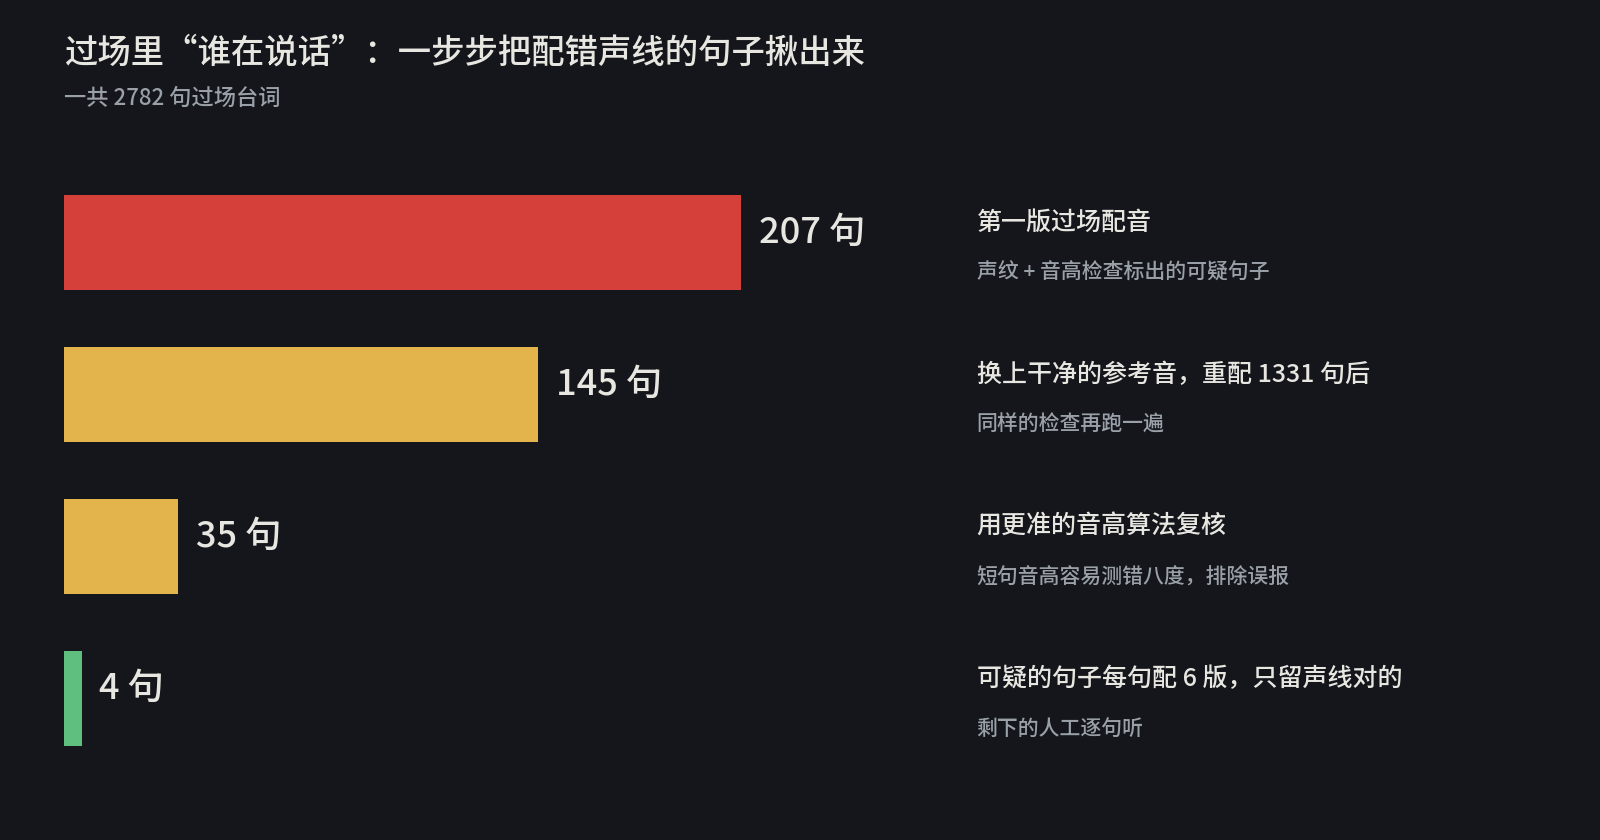
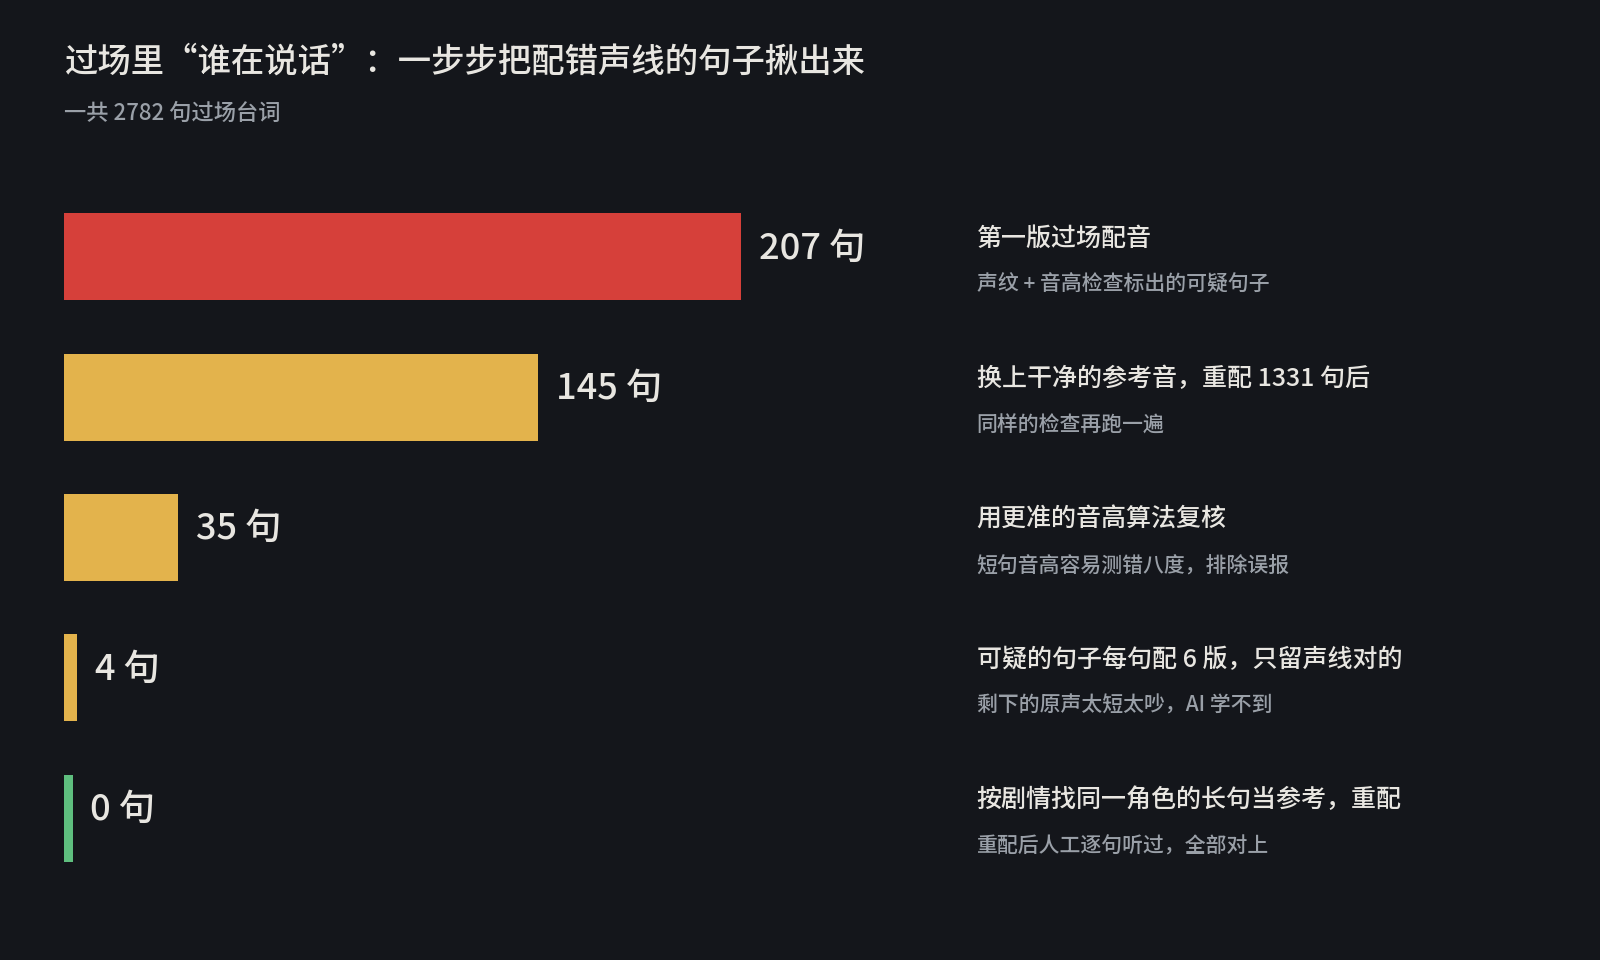
文章：过场声线修复写到最终结果，漏斗图加最后一步

diff --git a/docs/article/article.html b/docs/article/article.html
@@ -1,0 +1,116 @@
+<p>先说结论：《红色警戒3》和资料片《起义时刻》，现在可以整套用普通话玩了。</p>
+<p>单位语音、EVA 战场播报、合作指挥官、战役里的任务对白、过场视频，全部是中文配音，一共 10171 句。音色是照着原版配音演员&quot;克隆&quot;的——谭雅还是那个谭雅，库可夫还是那个库可夫，只是说起了普通话。界面和字幕也可以一并换成简体中文。</p>
+<p>演示视频在 B 站（P1 功能演示，P2 实机演示）：https://www.bilibili.com/video/BV1tGpr6REsK/</p>
+<p>这篇文章讲讲整件事是怎么做出来的，以及中间踩过的坑。不懂技术也能看，懂技术的可以去 GitHub 看代码（地址在文末）。</p>
+<p data-img="fig1_cover.png"><strong>【图1放这里：fig1_cover.png】</strong></p>
+<h2>一、先搞懂：游戏是怎么&quot;找到&quot;一句语音的</h2>
+<p>红警3 用的是 EA 的 SAGE 引擎。游戏所有的声音、图片、文字都装在一个个 .big 文件里（可以理解成压缩包），再由一种叫 SkuDef 的配置文件列出&quot;按什么顺序打开这些包&quot;。同一个文件如果好几个包里都有，<strong>排在前面的说了算</strong>。</p>
+<p>所以做 MOD 的思路很简单：做一个装满中文语音的包，排在英文语音包前面。</p>
+<p>第一个坑就在这里。最开始我照着常见做法，新建了一个&quot;版本号 +1&quot;的配置文件。起义时刻没问题，原版红警3 却完全没反应。查下来发现，Steam 启动原版时会<strong>指定版本号 1.13</strong>，根本不看新建的配置。而且改版本号还会影响联机选版本。</p>
+<p>最后的做法是：在原有配置里，紧挨着&quot;英文语音包&quot;那一行的前面，插入一行加载我们的包。改之前先备份，卸载时原样恢复，逐字节一致。版本号一个字都不动，联机也不受影响。</p>
+<p data-img="fig2_load_order.png"><strong>【图2放这里：fig2_load_order.png】</strong></p>
+<p>第二个坑：游戏有一个 audio.bin 文件，里面记着<strong>每句语音有多长</strong>。中文和英文说同一句话，长度肯定不一样，长度对不上，语音就会被截断或拖长。更麻烦的是，安装器允许玩家只装一部分，比如&quot;只要盟军和苏联&quot;。不同组合需要不同的长度表——6 个语音组件，一共 63 种组合，安装器会自动挑对应的那一份。</p>
+<h2>二、把台词一句句拆出来</h2>
+<p>拆包之后，按文件名把一万多个语音文件归到阵营和单位。惨叫、笑声这类没有台词的声音直接保留原样。</p>
+<p>这里也漏过东西：试玩时发现谭雅很多短句还是英文。原因是谭雅放 C4 的那组语音，文件名里带数字，归类规则没认出来。改了规则，补上 6 句。</p>
+<p>战役对白是另一种格式，叫&quot;流式音频&quot;：文件头放在 audio.bin 里，声音数据还要经过一层 EA 自家的压缩。第一次测试时我没压缩，进游戏一片寂静——没报错，就是不出声。</p>
+<p>过场视频的音轨格式叫 EA-XA，这个格式我自己写了解码和编码。解出来的结果和开源工具 vgmstream 逐个采样点对比，完全一致。</p>
+<h2>三、翻译：听到的和看到的要一样</h2>
+<p>英文先用 Whisper（OpenAI 的语音识别模型）听写成文字，再翻成中文。剧情部分有官方繁体中文字幕，优先沿用官方译法：伊娃、查丹科、吉尔利斯……老玩家熟悉的名字不改。</p>
+<p>翻译时有两条原则：</p>
+<p>第一，<strong>字幕跟着配音走</strong>。字幕直接用配音稿，保证你听到的就是你看到的。</p>
+<p>第二，<strong>全游戏一个叫法</strong>。同一件东西，语音里叫&quot;质子撞击炮&quot;、界面上写&quot;质子对撞仪&quot;，听着就别扭。我整理了一张 156 条的术语表，从界面名称到配音台词全部统一，统一之后重配了 72 句。</p>
+<p>还有一个 AI 配音特有的问题：多音字。&quot;弹&quot;读 tán 还是 dàn、&quot;乐&quot;读 lè 还是 yuè，AI 经常读错。最省事的办法是写台词时就绕开，比如带&quot;弹&quot;字的说法改成&quot;中枪&quot;&quot;装填&quot;。</p>
+<h2>四、核心：让原版演员&quot;说&quot;普通话</h2>
+<p>配音用的是开源模型 IndexTTS2。给它一段原版英文语音当&quot;音色参考&quot;，再给一句中文，它就用这个音色把中文念出来。</p>
+<p>每句台词生成好几个版本，再让 Whisper 把生成的中文听写回来，自动打分：字念对没有、中间有没有奇怪的停顿、长度合不合理。挑出最好的一版，不合格的自动重配。最后单位语音的自动质检通过率在 98.4% 到 99.5% 之间，没通过的 44 句全部人工听过一遍，读错、翻得别扭的 13 句改写后重配。</p>
+<p data-img="fig3_pipeline.png"><strong>【图3放这里：fig3_pipeline.png】</strong></p>
+<p>这一部分踩的坑最多，挑三个讲。</p>
+<p>坑一：说话中间莫名其妙停顿。</p>
+<p>最早一批配音里，大约四分之一的句子会在中间卡一下，比如&quot;关键……建筑损失&quot;。一开始以为是情感参数的问题，调了反而更糟。</p>
+<p>后来做了对照实验才找到原因：为了让音色更稳，我把同一个单位的好几段原声拼起来当参考，拼接处的停顿被模型当成了&quot;这个人说话的习惯&quot;。数据很明显：</p>
+<ul>
+<li>多段拼接参考：60% 到 76% 的句子有多余停顿</li>
+<li>只用这一句自己的原声当参考：降到 22%</li>
+<li>再加上自动挑选和重配：最终合格率约 99%</li>
+</ul>
+<p data-img="fig4_pauses.png"><strong>【图4放这里：fig4_pauses.png】</strong></p>
+<p>坑二：短句变成哼哼。</p>
+<p>&quot;是。&quot;&quot;收到。&quot;这种不到一秒的短句，原声太短，没法当参考，就改用同一单位最长的一段。结果对忍者、帝国武士这类单位来说，最长的一段是一声叹气或者战吼——AI 学了这个，念台词变成了哼哼。改成&quot;只从有台词的片段里挑最长的&quot;就好了。</p>
+<p>坑三：特效反而是减分项。</p>
+<p>我给机甲、要塞这类机械单位试过加电子音效、变声，听下来全都不如不加——特效会把语气里的情绪磨掉。最后全部不加效果，只做音量和音色上的轻微匹配。</p>
+<h2>五、过场视频：先把英文&quot;抠&quot;掉，再把中文放回去</h2>
+<p>过场视频是最难的部分。单位语音是一句一个文件，换掉就行；过场视频的声音是对白、音乐、音效混在一起的。</p>
+<p>第一版我只替换了&quot;对白声道&quot;（5.1 环绕声里中间那个声道），结果一看演示视频，左右和后面的声道里还能听到英文——录音的时候，人声本来就会&quot;漏&quot;到其他声道。</p>
+<p>解法是用 Demucs（一个开源的人声分离模型），把每个声道里的人声分离出来，在有中文配音的地方把英文去掉，音乐和音效原样保留，再把中文放进对白声道。</p>
+<p data-img="fig5_spectrum.png"><strong>【图5放这里：fig5_spectrum.png】</strong></p>
+<p>放回去时还有个时间问题：中文和英文长度不同，但口型和镜头切换是固定的。做法是按官方字幕的时间轴放，中文太长就适当加速（最多 1.5 倍，用的是加速不变调的算法），首尾多余的静音和杂音裁掉。原版大约 270 句、起义时刻大约 130 句做过加速。</p>
+<p>最大的问题是&quot;谁在说话&quot;。</p>
+<p>第一版过场配音里出现过谭雅用男声说话、查丹科和库可夫一个声线的情况。原因是给 AI 的音色参考不干净：一段原声里混着别人的台词，或者背景太吵，AI 就学错了人。</p>
+<p>修正分三步：</p>
+<ol>
+<li>用 Demucs 分离出的干净人声，按每句台词的起止时间精确切出参考，不让别人的声音混进来；</li>
+<li>用声纹模型（CAMPPlus，可以理解成&quot;声音的指纹&quot;）检查每一句配音像不像这个角色本人；</li>
+<li>全屏过场的台词和声纹对不上的句子，换上干净的参考重配，这一轮一共重配了 1300 多句。</li>
+</ol>
+<p>重配完再查一遍，还有 145 句可疑。但里面大多是&quot;谢谢&quot;&quot;阿克曼&quot;这种一秒左右的短句，音高很容易测错一个八度，换一种更准的音高算法复核后，真正可疑的只剩 35 句。这 35 句每句配 6 个版本，把声线不对的版本先扔掉，再从剩下的里挑念得最好的。最后只剩 4 句怎么配都不对，多半是原声参考本身有问题，留给人工逐句听。</p>
+<p data-img="fig6_voices.png"><strong>【图6放这里：fig6_voices.png】</strong></p>
+<h2>六、简体中文文字</h2>
+<p>文字部分是用官方繁体中文版转成简体，再把台湾用语换成大陆用语（比如&quot;程式&quot;改&quot;程序&quot;），然后套上前面那张术语表。英文版游戏也能用。</p>
+<p>字体用的是开源的思源黑体。游戏只认它自己的几个字体名，所以把思源黑体改个名&quot;冒充&quot;进去。打包时会自动检查：所有要显示的字，字体里是不是都有，不会出现方块字。</p>
+<h2>七、安装器：让玩家点一下就能用</h2>
+<p>改配置文件这种事，不能指望每个玩家都会。所以做了一个图形安装器：</p>
+<p data-img="fig7_installer.png"><strong>【图7放这里：fig7_installer.png】</strong></p>
+<ul>
+<li>自动找到 Steam、EA App、Origin 版的游戏，原版和起义时刻都装了的话一起列出来；</li>
+<li>每部分都能单独勾选：只要单位语音、不要过场配音，都可以；</li>
+<li>分三个安装包——原版、起义时刻、完整版。不确定自己是哪个，就下完整版；</li>
+<li>自带&quot;故障诊断&quot;：Steam 验证文件后配置被还原、启动参数冲突、下错版本这些常见问题，会直接告诉你原因和处理办法；</li>
+<li>自带&quot;检查更新&quot;：以后修了哪句台词，点一下就只下载改动的部分，不用重新下整个包。</li>
+</ul>
+<p>关于&quot;Windows 已保护你的电脑&quot;的蓝色提示：这是因为安装器没有购买数字签名（每年要花几千元，个人项目负担不起）。点&quot;更多信息&quot;→&quot;仍要运行&quot;即可。不放心的话，安装包里附了校验码，可以自己核对文件有没有被改过。</p>
+<p>安装器里最后还有一个可选项「高帧率 120 帧」，下一节专门说。</p>
+<h2>八、顺便安利：让红警3 跑上 120 帧的 SAGE-Unlocked</h2>
+<p>玩红警3 的朋友可能都注意过，这游戏看着总有点&quot;一顿一顿&quot;的。这不是你电脑的问题——红警3 出厂就被锁在了 30 帧，哪怕你用的是 4090 也一样。</p>
+<p>网上以前也有解锁帧数的办法，但大多有副作用：帧数一高，整个游戏跟着变快，单位跑得飞快、建造时间缩水；要么就是开火、爆炸的时候屏幕上会闪一大片白光，靠近水面尤其明显。</p>
+<p>SAGE-Unlocked 是一位叫 TheeHorse 的作者做的免费开源插件，专门解决这个问题。它的思路说白了就是：画面画得更勤快，但游戏本身的节奏一点不动。所以：</p>
+<ul>
+<li>画面从 30 帧变成 60、120 甚至更高，单位移动、镜头拖动都顺滑很多；</li>
+<li>游戏速度和原来完全一样，不会变快；</li>
+<li>没有那种爆炸闪白光的毛病；</li>
+<li>帧数最高只到你显示器的刷新率。普通 60 Hz 的屏幕就是 60 帧，144 Hz 的屏幕可以设到 135 帧（要填 15 的倍数）；</li>
+<li>电脑带不动时，比如设了 120 帧只跑到 80 帧，也只是没那么流畅，游戏速度照样正常。</li>
+</ul>
+<p>我自己是 120 帧在玩，体验提升非常明显，是那种&quot;回不去了&quot;的程度。</p>
+<p>它也很&quot;干净&quot;：不改游戏原文件，就是往游戏的 Data 文件夹里放三个小文件，删掉就恢复原样。除了红警3 和起义时刻，它还支持命令与征服3、凯恩之怒、魔戒中土之战2 这几作，地址在这里：</p>
+<p>https://github.com/TheeHorse/SAGE-Unlocked</p>
+<p>为了省事，我把它做进了安装器，是最后一个可选项「高帧率 120 帧」，默认不勾选，想要就勾上。安装器会帮你处理这几件事：</p>
+<ul>
+<li>已经装了 ReShade 这类画面工具的（它们也用一个叫 d3d9.dll 的文件），安装器会自动跳过，不会把你的东西覆盖掉；</li>
+<li>你自己装过这个插件的，不勾选的话安装器完全不碰它；</li>
+<li>想换帧数：用记事本打开游戏目录里的 Data\SAGEUnlocked.ini，把 fps= 后面的数字改掉就行，以后更新 MOD 也会保留你改的数字。</li>
+</ul>
+<p>作者说明里提到一个已知小问题：苏联的反应堆（发电建筑）画面会闪烁，作者还在修。联机我没有实测过，如果遇到问题，在安装器里单独取消勾选它就行。</p>
+<p>如果觉得好用，也欢迎去作者的 GitHub 页面点个星星。</p>
+<h2>九、还没做好的地方</h2>
+<p>说实话，有几处还不满意：</p>
+<ul>
+<li>情感。短句听不太出来，但真人过场里，AI 配音明显比原版演员平淡。这是目前 AI 配音的普遍短板，我试过几种调情感的办法，效果时好时坏，留到下一个版本继续研究。</li>
+<li>大厅音乐里带人声的歌没有做。</li>
+<li>联机对战没有实测过。理论上只换了声音和文字，不影响同步；遇到问题请先卸载再联机。</li>
+</ul>
+<p>发现念错、翻错、声线不对的地方，欢迎在评论区或 GitHub 上告诉我，会通过在线更新修掉。</p>
+<h2>十、版权和开源</h2>
+<p>经常有人说&quot;红警开源了&quot;。准确地说，EA 在 2025 年以 GPL-3.0 开源的是初代命令与征服、红警一代、叛逆者、将军/绝命时刻的代码。红警3 只公开了一个模组支持包（游戏数据和脚本），引擎没有开源。而且即使是开源的那几作，开源的也只是代码，美术、音频的版权仍然属于 EA。</p>
+<p>所以这个项目的原则是：</p>
+<ul>
+<li>社区非盈利，不收任何费用；</li>
+<li>GitHub 上只放我自己写的制作工具代码（GPL-3.0），不放任何游戏文件和配音成品；</li>
+<li>安装包需要正版游戏才能用；</li>
+<li>如果权利方提出异议，会及时下架或替换。</li>
+</ul>
+<p>工具代码：https://github.com/77652189/RA3-ChineseVoice</p>
+<p>最后感谢这些开源项目：IndexTTS2（配音）、Whisper（听写）、Demucs（人声分离）、vgmstream（音频格式参考）、OpenCC（繁简转换）、思源黑体（字体）、SAGE-Unlocked（帧率解锁）。没有它们，一个人是做不出这些的。</p>
+<p>下载地址（三个安装包选一个，不确定就下完整版）：</p>
+<p>百度网盘：https://pan.baidu.com/s/5oqzy02MrWkfMGjZQ18SbPQ</p>
+<p>备用（GitHub，国内可能较慢）：https://github.com/77652189/RA3-ChineseVoice/releases/latest</p>

diff --git a/docs/article/make_figs.py b/docs/article/make_figs.py
@@ -241,8 +241,9 @@ def funnel():
     steps = [(207, '第一版过场配音', '声纹 + 音高检查标出的可疑句子', RED),
              (145, '换上干净的参考音，重配 1331 句后', '同样的检查再跑一遍', GOLD),
              (35, '用更准的音高算法复核', '短句音高容易测错八度，排除误报', GOLD),
-             (4, '可疑的句子每句配 6 版，只留声线对的', '剩下的人工逐句听', GREEN)]
-    f = fig(8.4)
+             (4, '可疑的句子每句配 6 版，只留声线对的', '剩下的原声太短太吵，AI 学不到', GOLD),
+             (0, '按剧情找同一角色的长句当参考，重配', '重配后人工逐句听过，全部对上', GREEN)]
+    f = fig(9.6)
     f.text(0.04, 0.925, '过场里“谁在说话”：一步步把配错声线的句子揪出来', color=FG, fontsize=24, weight='bold')
     f.text(0.04, 0.875, '一共 2782 句过场台词', color=DIM, fontsize=16)
     ax = f.add_axes([0.04, 0.06, 0.92, 0.76], facecolor=BG)
@@ -252,7 +253,7 @@ def funnel():
     top = steps[0][0]
     for i, (n, t, s, c) in enumerate(steps):
         y = len(steps) - 1 - i
-        w = max(1.2, 46 * n / top)
+        w = max(0.6, 46 * n / top)
         ax.barh(y, w, left=0, height=0.62, color=c)
         ax.text(w + 1.2, y + 0.06, f'{n} 句', color=FG, fontsize=26, weight='bold', va='center')
         ax.text(62, y + 0.13, t, color=FG, fontsize=18, va='center', weight='bold')

diff --git a/docs/article/xiaoheihe.md b/docs/article/xiaoheihe.md
@@ -8,7 +8,7 @@
 
 单位语音、EVA 战场播报、合作指挥官、战役里的任务对白、过场视频，全部是中文配音，一共 10171 句。音色是照着原版配音演员"克隆"的——谭雅还是那个谭雅，库可夫还是那个库可夫，只是说起了普通话。界面和字幕也可以一并换成简体中文。
 
-演示视频在 B 站：［B 站视频链接］
+演示视频在 B 站（P1 功能演示，P2 实机演示）：https://www.bilibili.com/video/BV1tGpr6REsK/
 
 这篇文章讲讲整件事是怎么做出来的，以及中间踩过的坑。不懂技术也能看，懂技术的可以去 GitHub 看代码（地址在文末）。
 
@@ -24,7 +24,7 @@
 
 最后的做法是：在原有配置里，紧挨着"英文语音包"那一行的前面，插入一行加载我们的包。改之前先备份，卸载时原样恢复，逐字节一致。版本号一个字都不动，联机也不受影响。
 
-［图 2：示意图——配置文件里 add-big 的顺序，中文包插在英文语音包前面］
+［图 2：fig2_load_order.png——示意图——配置文件里 add-big 的顺序，中文包插在英文语音包前面］
 
 第二个坑：游戏有一个 audio.bin 文件，里面记着**每句语音有多长**。中文和英文说同一句话，长度肯定不一样，长度对不上，语音就会被截断或拖长。更麻烦的是，安装器允许玩家只装一部分，比如"只要盟军和苏联"。不同组合需要不同的长度表——6 个语音组件，一共 63 种组合，安装器会自动挑对应的那一份。
 
@@ -56,7 +56,7 @@
 
 每句台词生成好几个版本，再让 Whisper 把生成的中文听写回来，自动打分：字念对没有、中间有没有奇怪的停顿、长度合不合理。挑出最好的一版，不合格的自动重配。最后单位语音的自动质检通过率在 98.4% 到 99.5% 之间，没通过的 44 句全部人工听过一遍，读错、翻得别扭的 13 句改写后重配。
 
-［图 3：流水线示意——原版语音 → 识别 → 翻译 → AI 配音（多个版本）→ 自动听写打分 → 挑选 → 打包］
+［图 3：fig3_pipeline.png——流水线示意——原版语音 → 识别 → 翻译 → AI 配音（多个版本）→ 自动听写打分 → 挑选 → 打包］
 
 这一部分踩的坑最多，挑三个讲。
 
@@ -70,7 +70,7 @@
 · 只用这一句自己的原声当参考：降到 22%
 · 再加上自动挑选和重配：最终合格率约 99%
 
-［图 4：柱状图——三种参考方式的停顿比例］
+［图 4：fig4_pauses.png——柱状图——三种参考方式的停顿比例］
 
 坑二：短句变成哼哼。
 
@@ -88,7 +88,7 @@
 
 解法是用 Demucs（一个开源的人声分离模型），把每个声道里的人声分离出来，在有中文配音的地方把英文去掉，音乐和音效原样保留，再把中文放进对白声道。
 
-［图 5：频谱对比——原版、去掉人声后、放入中文后］
+［图 5：fig5_spectrum.png——频谱对比——原版、去掉人声后、放入中文后］
 
 放回去时还有个时间问题：中文和英文长度不同，但口型和镜头切换是固定的。做法是按官方字幕的时间轴放，中文太长就适当加速（最多 1.5 倍，用的是加速不变调的算法），首尾多余的静音和杂音裁掉。原版大约 270 句、起义时刻大约 130 句做过加速。
 
@@ -102,9 +102,9 @@
 2. 用声纹模型（CAMPPlus，可以理解成"声音的指纹"）检查每一句配音像不像这个角色本人；
 3. 全屏过场的台词和声纹对不上的句子，换上干净的参考重配，这一轮一共重配了 1300 多句。
 
-重配完再查一遍，还有 145 句可疑。但里面大多是"谢谢""阿克曼"这种一秒左右的短句，音高很容易测错一个八度，换一种更准的音高算法复核后，真正可疑的只剩 35 句。这 35 句每句配 6 个版本，把声线不对的版本先扔掉，再从剩下的里挑念得最好的。最后只剩 4 句怎么配都不对，多半是原声参考本身有问题，留给人工逐句听。
+重配完再查一遍，还有 145 句可疑。但里面大多是"谢谢""阿克曼"这种一秒左右的短句，音高很容易测错一个八度，换一种更准的音高算法复核后，真正可疑的只剩 35 句。这 35 句每句配 6 个版本，把声线不对的版本先扔掉，再从剩下的里挑念得最好的。最后剩下 4 句怎么配都不对：原声本身太短太吵（比如人声嘈杂的场景里一句一秒的"殿下！"），AI 根本学不到这个人的声音。这几句就按剧情判断是谁在说话，换成同一个角色在附近的长句当参考，重配之后再逐句听过，全部对上了。
 
-［图 6：fig6_voices.png——一步步把配错声线的句子揪出来：207 → 145 → 35 → 4］
+［图 6：fig6_voices.png——一步步把配错声线的句子揪出来：207 → 145 → 35 → 4 → 0］
 
 【六、简体中文文字】
 
